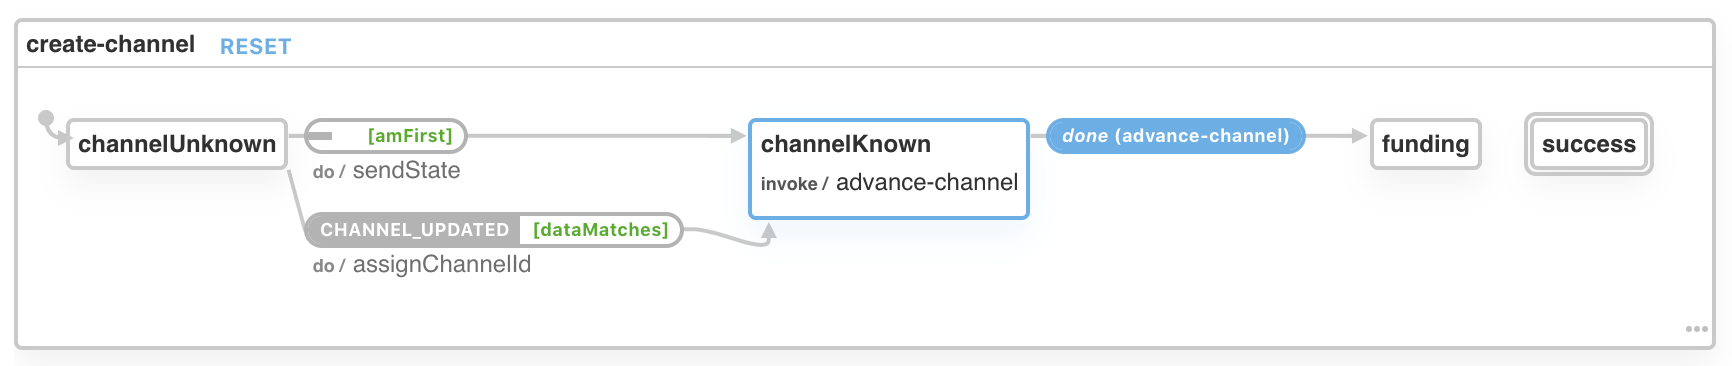
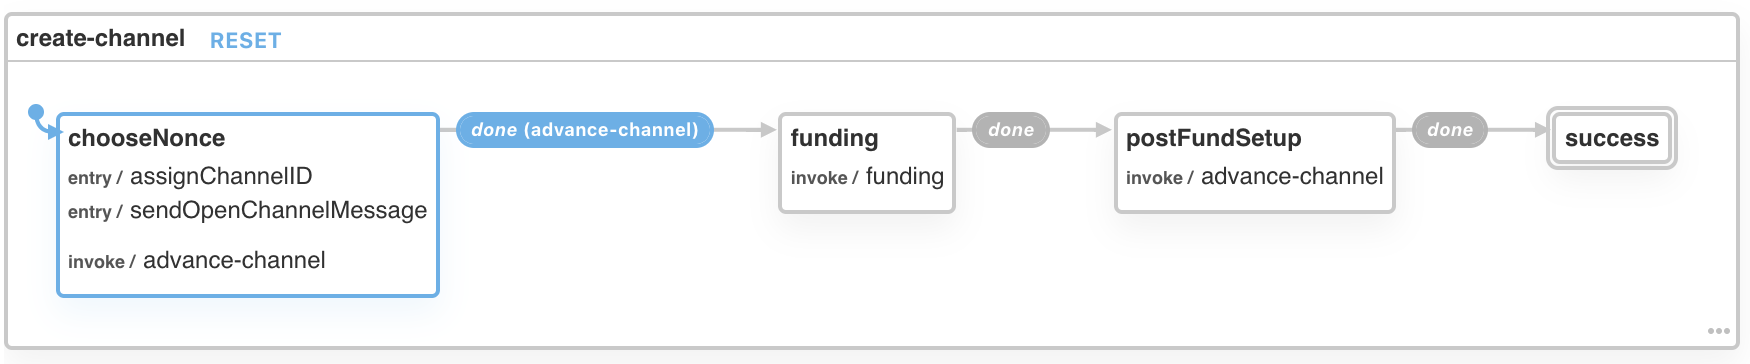
Update create-channel protocol to reflect json-rpc API

diff --git a/packages/wallet-specs/src/protocols/create-channel/protocol.ts b/packages/wallet-specs/src/protocols/create-channel/protocol.ts
@@ -1,32 +1,18 @@
-import { Address, Outcome, PrivateKey } from '../../';
+import { JsonRpcCreateChannelParams } from '../../json-rpc';
 import { saveConfig } from '../../utils';
 
 const PROTOCOL = 'create-channel';
 
-export interface Init {
-  participants: Address[];
-  outcome: Outcome;
-  appDefinition: Address;
-  appData: string;
-  privateKey: PrivateKey;
-}
+/*
+Spawned in a new process when the app calls CreateChannel
+*/
+export type Init = JsonRpcCreateChannelParams;
 
-const channelUnknown = {
-  on: {
-    '': {
-      target: 'channelKnown',
-      cond: 'amFirst',
-      actions: 'sendState',
-    },
-    CHANNEL_UPDATED: {
-      target: 'channelKnown',
-      cond: 'dataMatches',
-      actions: 'assignChannelId',
-    },
-  },
-};
-
-const channelKnown = {
+const chooseNonce = {
+  onEntry: [
+    'assignChannelID', // This should generate a nonce, and assign `channelID` to the context
+    'sendOpenChannelMessage',
+  ],
   invoke: {
     src: 'advance-channel',
     data: 'passChannelId',
@@ -52,10 +38,9 @@ const postFundSetup = {
 
 const config = {
   key: PROTOCOL,
-  initial: 'channelUnknown',
+  initial: 'chooseNonce',
   states: {
-    channelUnknown,
-    channelKnown,
+    chooseNonce,
     funding,
     postFundSetup,
     success: { type: 'final' },

diff --git a/packages/wallet-specs/src/protocols/create-channel/protocol.config.js b/packages/wallet-specs/src/protocols/create-channel/protocol.config.js
@@ -1,18 +1,9 @@
 const config = {
   key: 'create-channel',
-  initial: 'channelUnknown',
+  initial: 'chooseNonce',
   states: {
-    channelUnknown: {
-      on: {
-        '': { target: 'channelKnown', cond: 'amFirst', actions: 'sendState' },
-        CHANNEL_UPDATED: {
-          target: 'channelKnown',
-          cond: 'dataMatches',
-          actions: 'assignChannelId',
-        },
-      },
-    },
-    channelKnown: {
+    chooseNonce: {
+      onEntry: ['assignChannelID', 'sendOpenChannelMessage'],
       invoke: {
         src: 'advance-channel',
         data: 'passChannelId',
